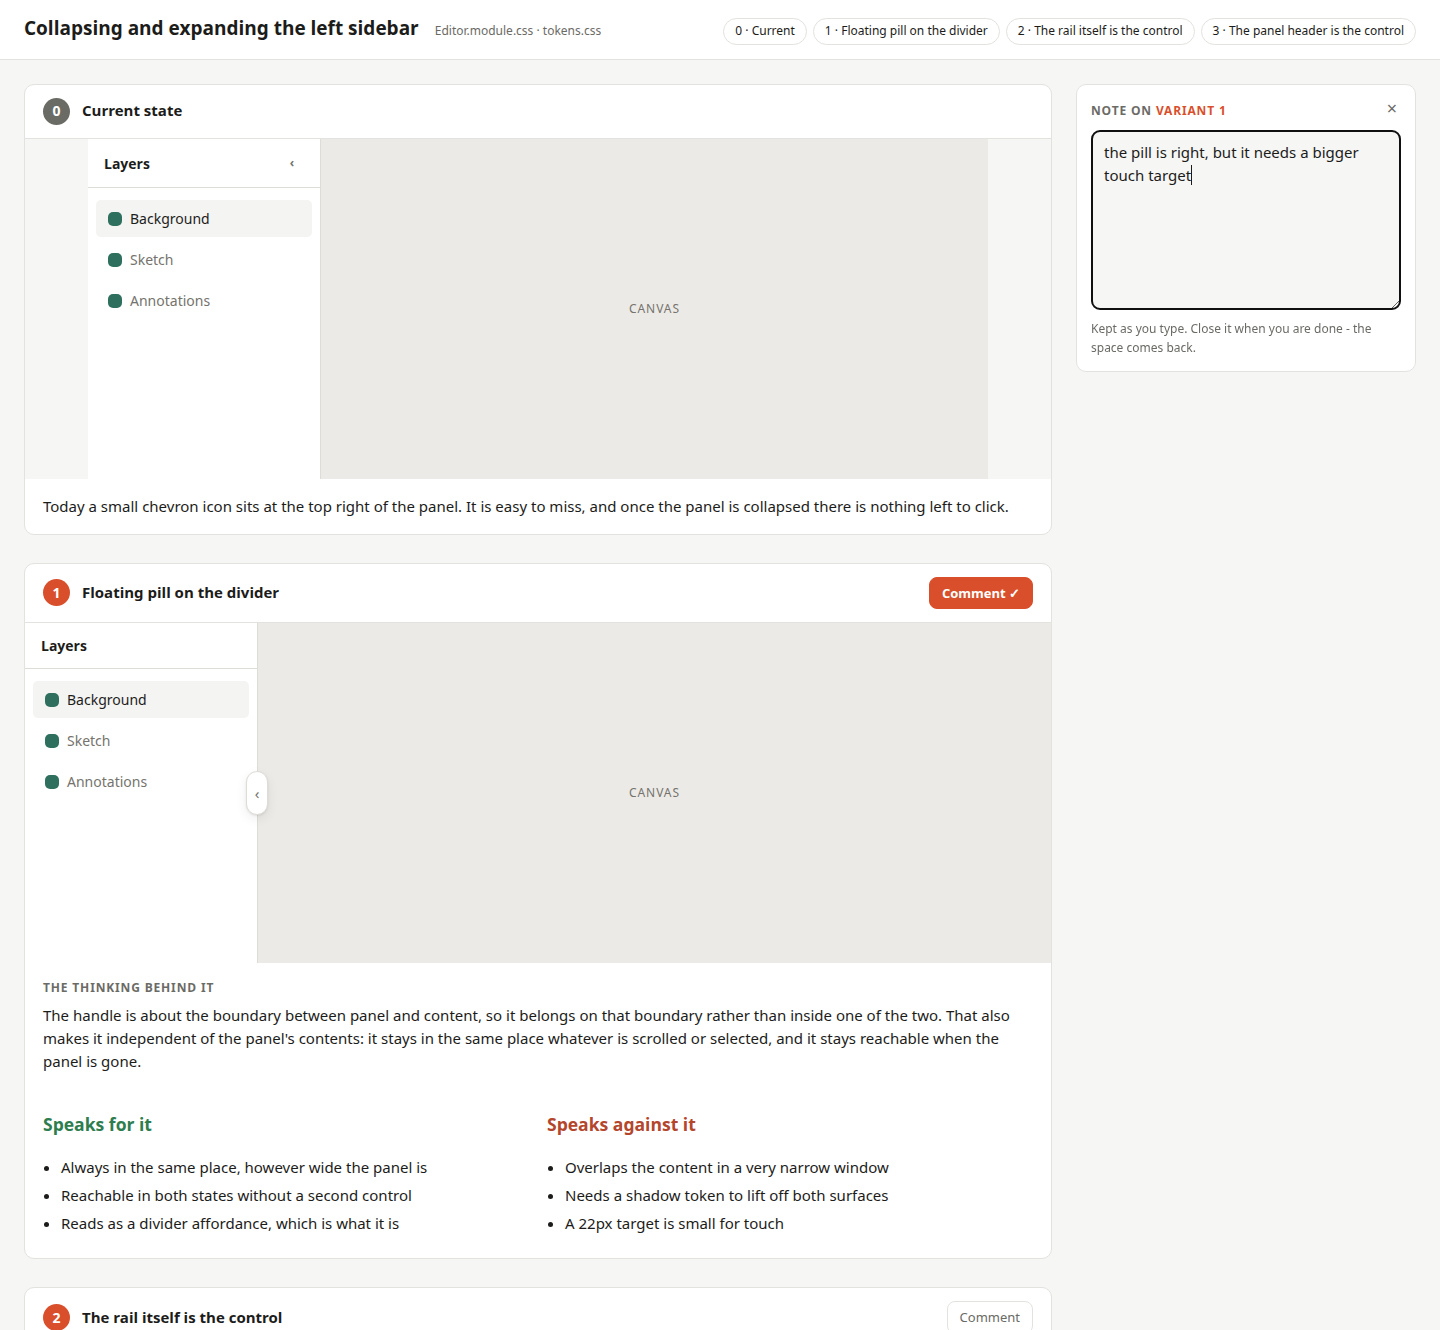
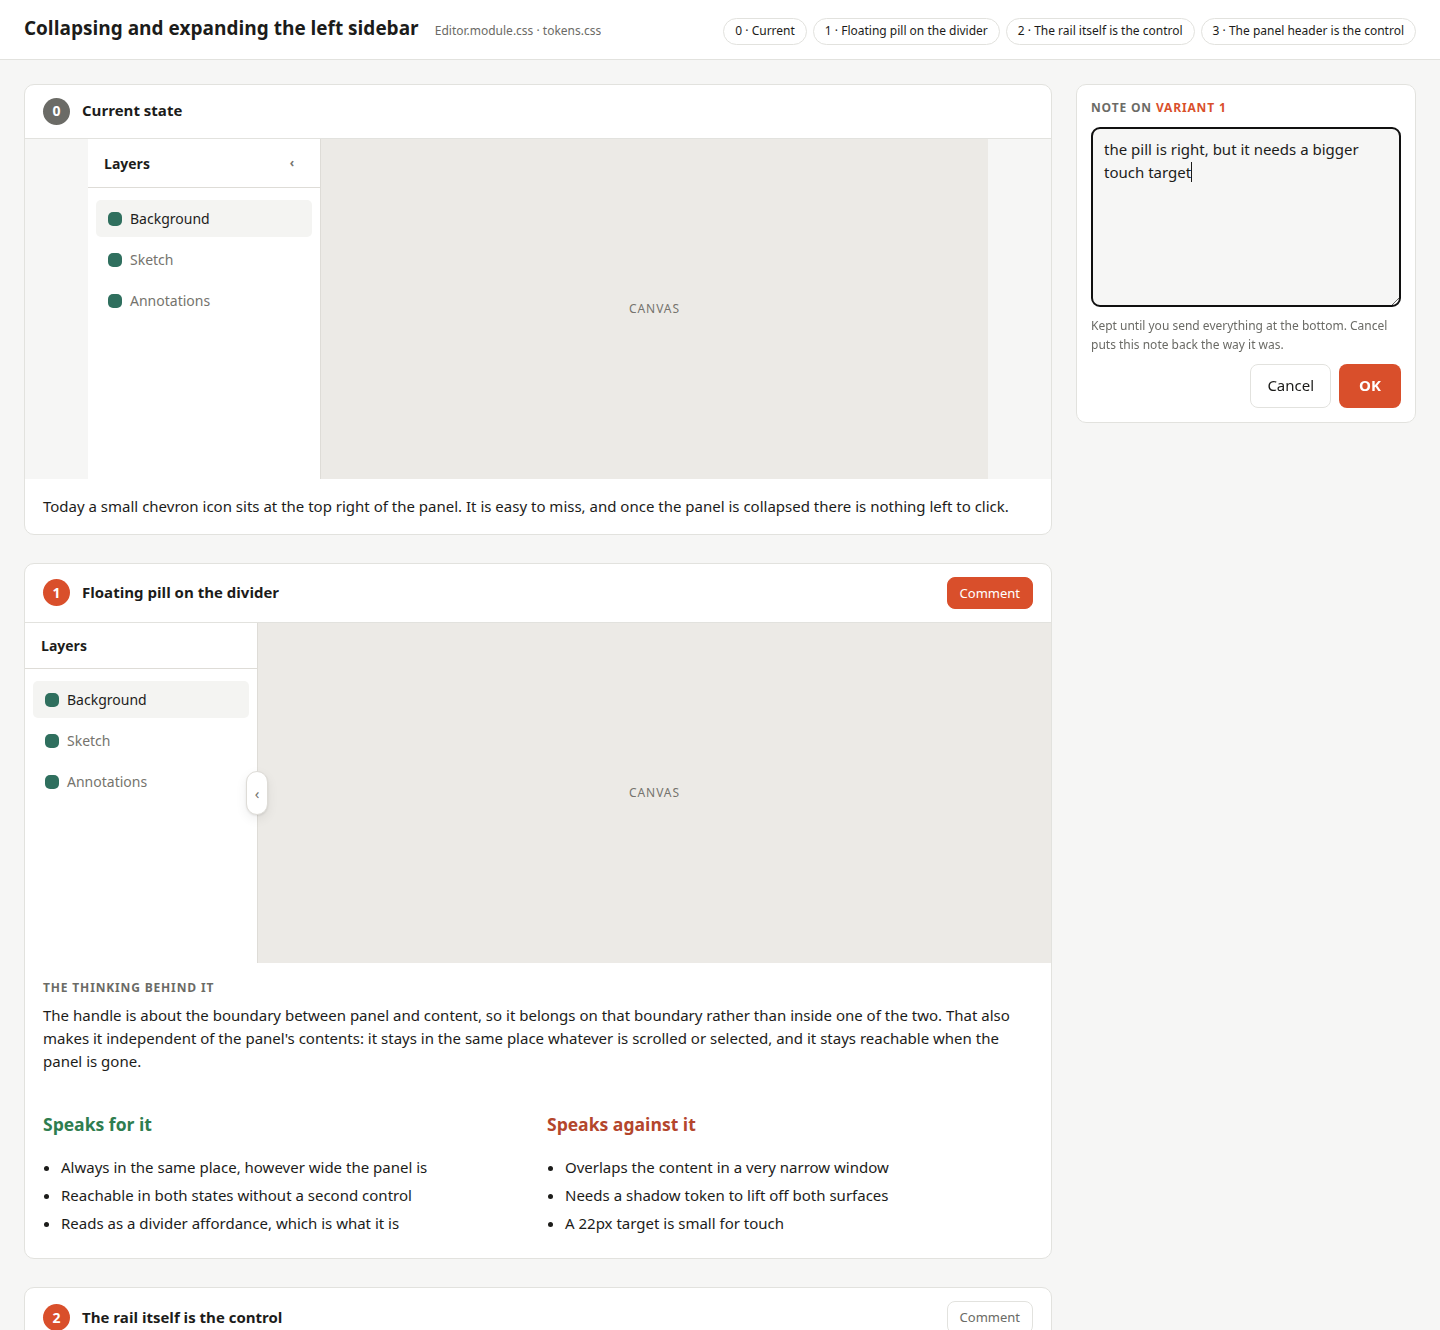
Replace the panel's cross with OK and Cancel
A cross reads as "discard" to some people and "put aside" to others, and in the
note panel those are different outcomes. Cancel now restores what the note said
when the panel was opened, so undoing a typo does not throw away the note
underneath; switching straight to another variant still keeps what you typed.

Changed region(s): [[0.75, 0.2158, 1.0, 0.3083], [0.75, 0.0617, 0.9688, 0.1541], [0.625, 0.4316, 0.6875, 0.4624]]

diff --git a/skills/ui-variants/assets/page-template.html b/skills/ui-variants/assets/page-template.html
@@ -133,14 +133,19 @@
         color: var(--page-muted);
       }
       .panelHead b { color: var(--page-accent); }
-      .panelClose {
-        border: 0; background: transparent; color: var(--page-muted);
-        font: inherit; font-size: 18px; line-height: 1; cursor: pointer;
-        padding: 0 4px; border-radius: var(--radius-sm, 5px);
-      }
-      .panelClose:hover { color: var(--page-text); }
       .notePanel textarea { min-height: 180px; }
       .panelHint { margin: 0; font-size: 12px; color: var(--page-muted); }
+      /* Two named buttons rather than a cross: a cross reads as "throw this
+         away" to some people and "put it aside" to others, and here those are
+         two different outcomes. */
+      .panelButtons { display: flex; gap: 8px; justify-content: flex-end; }
+      .panelButtons .send { margin-top: 0; }
+      .ghost {
+        border: 1px solid var(--page-line); border-radius: 8px;
+        background: transparent; color: var(--page-text);
+        padding: 9px 16px; font: inherit; cursor: pointer;
+      }
+      .ghost:hover { border-color: var(--page-accent); color: var(--page-accent); }
       @media (max-width: 900px) {
         /* No room to sit beside the variants, so it becomes a sheet at the
            bottom edge instead of squeezing them to nothing. */
@@ -268,10 +273,16 @@
       <aside class="notePanel" id="notePanel" aria-label="Note on a single variant">
         <div class="panelHead">
           <h2>Note on <b id="panelFor">variant</b></h2>
-          <button type="button" class="panelClose" id="panelClose" aria-label="Close">&times;</button>
         </div>
         <textarea id="panelText" placeholder="What would you change about this one?"></textarea>
-        <p class="panelHint">Kept as you type. Close it when you are done - the space comes back.</p>
+        <p class="panelHint">
+          Kept until you send everything at the bottom. Cancel puts this note
+          back the way it was.
+        </p>
+        <div class="panelButtons">
+          <button type="button" class="ghost" id="panelCancel">Cancel</button>
+          <button type="button" class="send" id="panelOk">OK</button>
+        </div>
       </aside>
     </div>
     <script>
@@ -293,17 +304,35 @@
       measureHeader();
       addEventListener('resize', measureHeader);
 
+      // What the note said when the panel was opened, so Cancel has something
+      // to restore. Without it Cancel could only mean "delete", which is not
+      // what you want after correcting a typo in a note you already wrote.
+      let draftBefore = '';
+
       function openPanel(number) {
-        if (openFor === number) return closePanel();
+        if (openFor === number) return commit();
+        // Switching straight to another variant keeps what you typed. Losing a
+        // paragraph to a misplaced click is far worse than a slightly loose
+        // rule about when a note counts as written.
+        if (openFor !== null) notes[openFor] = panelText.value;
         openFor = number;
+        draftBefore = notes[number] || '';
         panelFor.textContent = 'variant ' + number;
-        panelText.value = notes[number] || '';
+        panelText.value = draftBefore;
         shell.classList.add('withPanel');
         refresh();
         panelText.focus();
       }
 
-      function closePanel() {
+      function commit() {
+        if (openFor !== null) notes[openFor] = panelText.value;
+        openFor = null;
+        shell.classList.remove('withPanel');
+        refresh();
+      }
+
+      function cancel() {
+        if (openFor !== null) notes[openFor] = draftBefore;
         openFor = null;
         shell.classList.remove('withPanel');
         refresh();
@@ -327,14 +356,12 @@
       document.querySelectorAll('.noteBtn').forEach((button) =>
         button.addEventListener('click', () => openPanel(button.dataset.variant))
       );
-      document.getElementById('panelClose').addEventListener('click', closePanel);
-      panelText.addEventListener('input', () => {
-        notes[openFor] = panelText.value;
-        refresh();
-      });
+      document.getElementById('panelOk').addEventListener('click', commit);
+      document.getElementById('panelCancel').addEventListener('click', cancel);
       document.getElementById('note').addEventListener('input', refresh);
       addEventListener('keydown', (event) => {
-        if (event.key === 'Escape' && openFor !== null) closePanel();
+        // Escape is Cancel everywhere else, so it is Cancel here too.
+        if (event.key === 'Escape' && openFor !== null) cancel();
       });
 
       form.addEventListener('submit', async (event) => {

diff --git a/tests/test_page_template.py b/tests/test_page_template.py
@@ -87,6 +87,22 @@ class NotePanelTest(unittest.TestCase):
             "nor does a working [hidden] override exist",
         )
 
+    def test_panel_closes_through_two_named_buttons(self):
+        """A cross reads as "discard" to some and "put aside" to others, and
+        here those are different outcomes - so both are spelled out."""
+        _, body = split_template()
+        panel = body[body.index('class="notePanel"') : body.index("</aside>")]
+        self.assertIn('id="panelOk"', panel)
+        self.assertIn('id="panelCancel"', panel)
+        self.assertNotIn("&times;", panel, "the cross should be gone")
+
+    def test_cancel_restores_instead_of_deleting(self):
+        """Cancel after fixing a typo must not throw away the note underneath."""
+        _, body = split_template()
+        self.assertIn("draftBefore", body)
+        cancel = re.search(r"function cancel\(\)\s*\{([^}]*)\}", body).group(1)
+        self.assertIn("draftBefore", cancel)
+
     def test_panel_is_revealed_by_the_same_state_class_that_widens_the_page(self):
         """Two mechanisms for one state is how it drifts apart: the page grew
         wider while the panel stayed put."""
